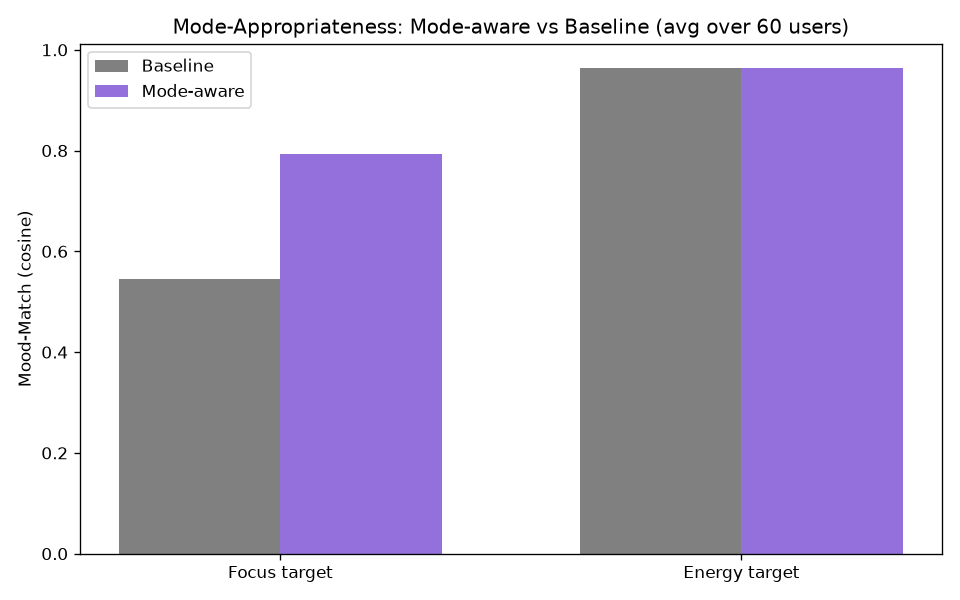
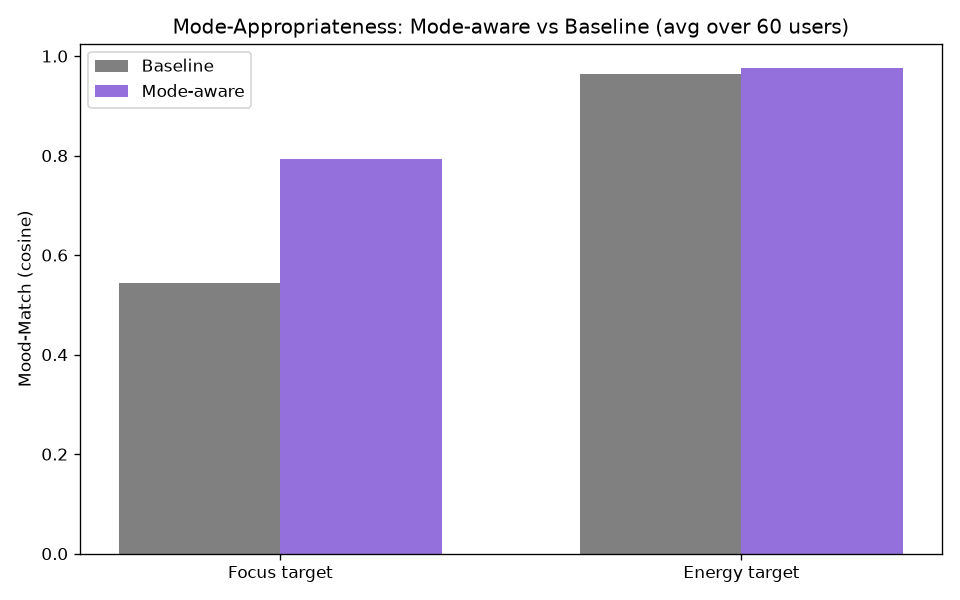
Re-run evaluation with fixed energy ranker + updated acclaim

diff --git a/src/ranking/energy.py b/src/ranking/energy.py
@@ -8,10 +8,19 @@ ENERGY_WEIGHTS = {
     "danceability": 0.10,
 }
 
+def _unit(values):
+    """Min-max scale a feature column to 0-1 so weights are comparable."""
+    v = np.asarray(values, dtype=float)
+    rng = v.max() - v.min()
+    return (v - v.min()) / rng if rng > 1e-9 else np.zeros_like(v)
+
 def energy_score(df):
+    # Scale every feature to 0-1 before weighting. tempo is raw BPM (~0-240),
+    # so without this it would dominate and the score would ignore energy,
+    # valence and danceability entirely.
     score = np.zeros(len(df))
     for feat, w in ENERGY_WEIGHTS.items():
-        score += w * df[feat].values
+        score += w * _unit(df[feat].values)
     return score
 
 def rank_energy(df, mode_weight=0.6):
